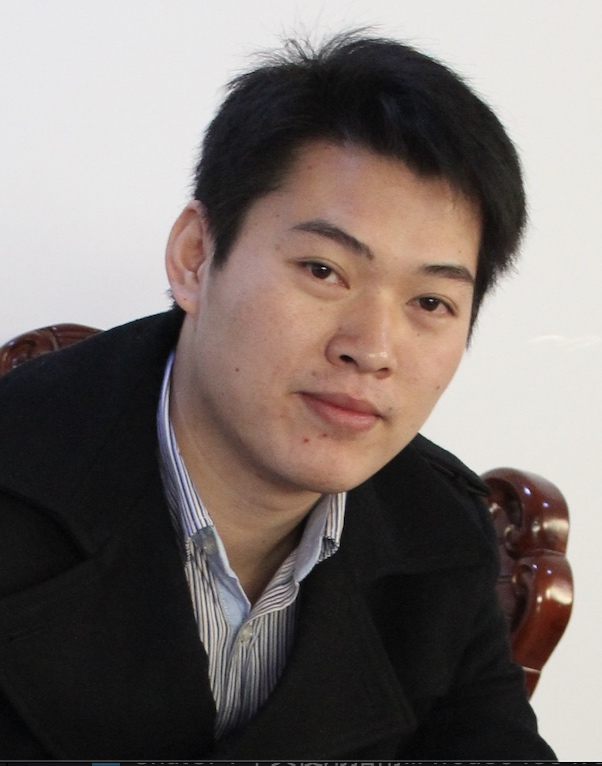
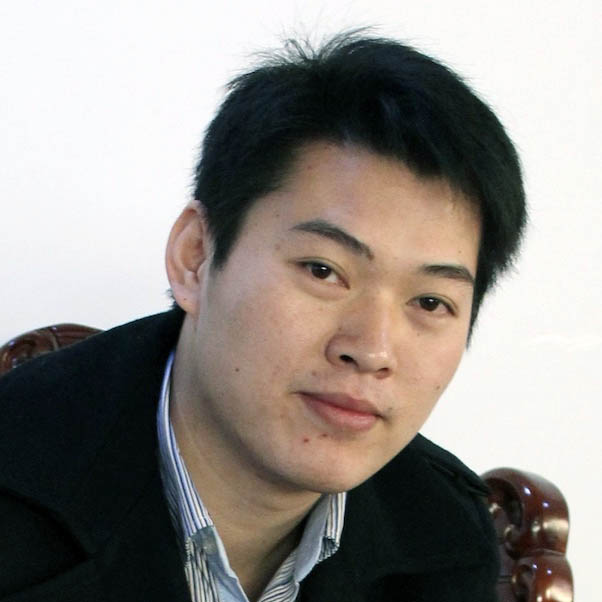
更新头像

diff --git a/index.md b/index.md
@@ -8,14 +8,14 @@ title: Harte的主页
 
 <img class="profile-picture" src="sherlock.jpeg">
 
-13年的人力资源经验，任职过模块专家、人资经理和区域人力负责人，目前专注于HRBP(人力资源业务合作伙伴)的工作；
 
-涉猎IT互联网、人工智能、在线教育等行业；历任公司均为行业里TOP；
+在IT互联网、人工智能和在线教育行业内，曾任职于多家顶级公司；
 
-创业成败各1次，2次从0到1搭建区域团队，最短2个月搭建完100人技术团队，交付过千万级的政府履约项目;
+拥有13年的人力资源管理经验，曾担任模块专家、HR经理、区域人力负责人和HRBP经理岗位；
 
-成功落地过公司和业务战略，建立过整套人力资源的制度和体系，平稳支撑过亿级的业务体量。
+2次创业经历，独立建立了整套人力资源制度和体系，有效支撑了千人规模和过亿体量的业务运作；
 
+2次从零开始搭建区域团队，仅用2个月时间搭建100人的产研团队，成功执行公司区域战略，交付过千万级的政府履约项目。
 
 ## 经历的企业
 
